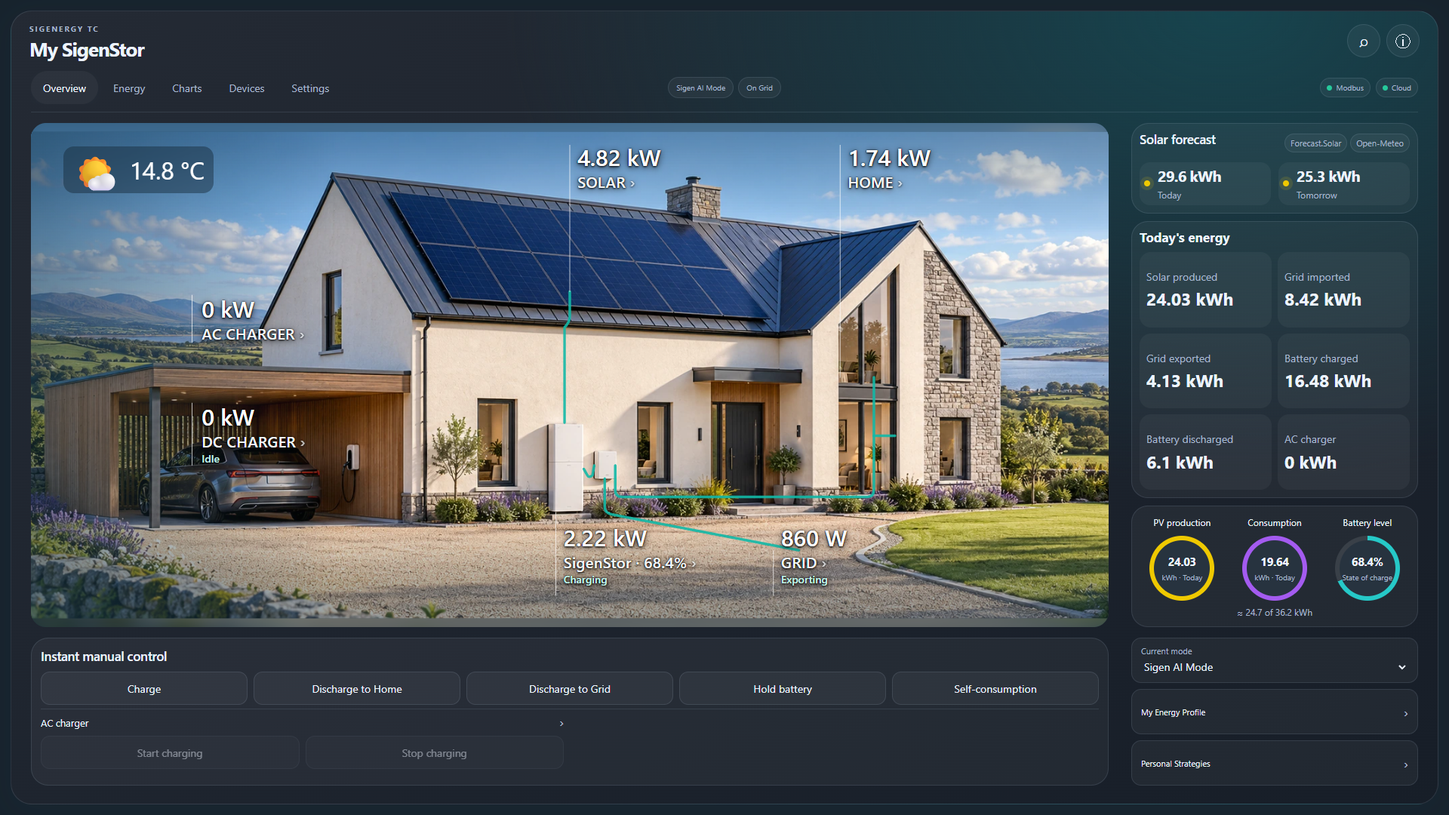
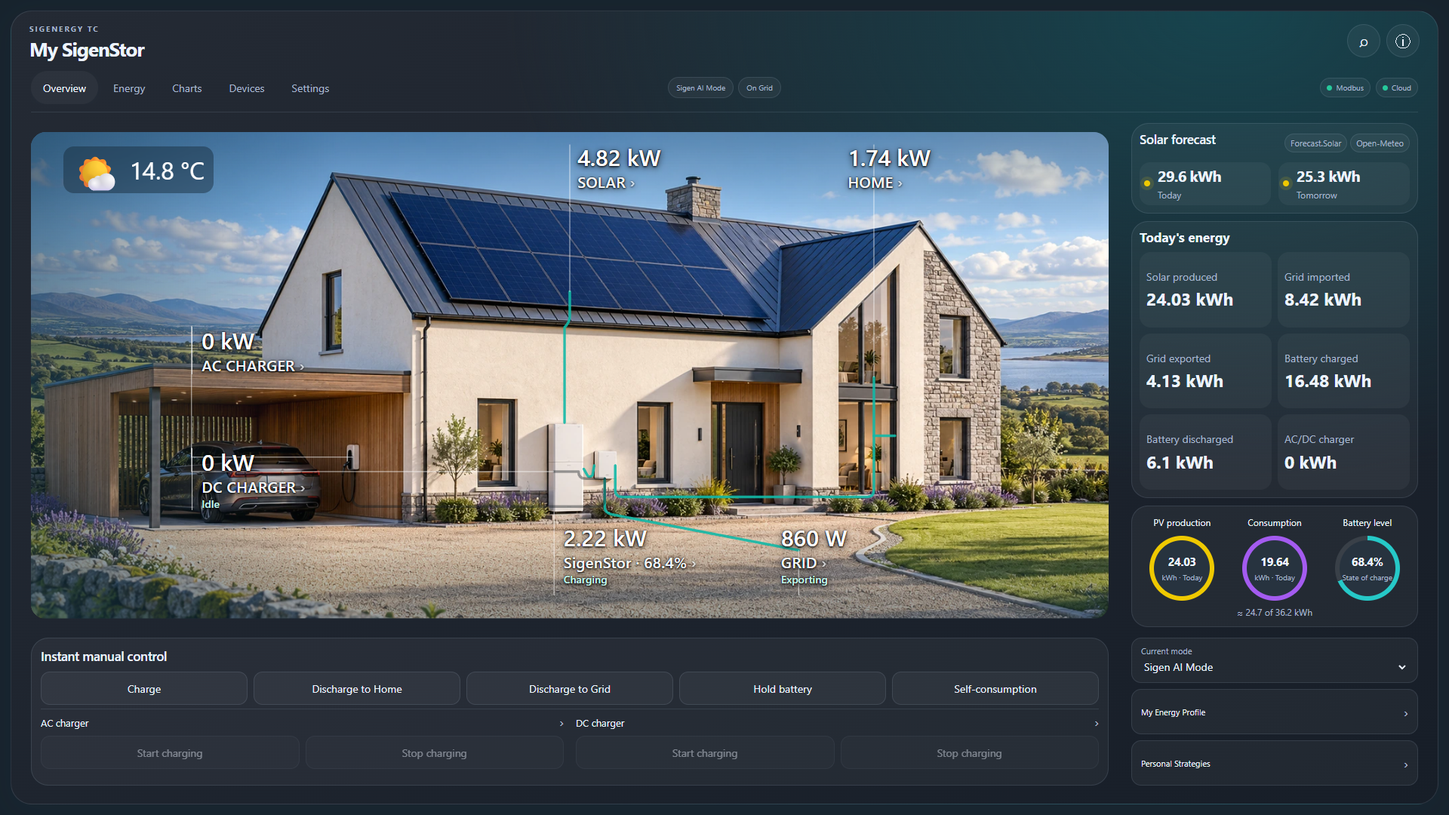
Alpha 0.2.4: charger links, cache upgrades and tablet layout (#8)
* Correct charger visibility, frontend cache upgrades and landscape composition

* Keep compact summary contents inside panels and test shorter native hosts

diff --git a/custom_components/sigen_hybrid/frontend/sigen-hybrid-fit.js b/custom_components/sigen_hybrid/frontend/sigen-hybrid-fit.js
@@ -20,13 +20,18 @@ export function installHostFit(Card) {
       if (!box.width || !this.isConnected) return;
       const viewport = globalThis.visualViewport;
       const bottom = viewport ? viewport.height + viewport.offsetTop : globalThis.innerHeight;
-      const offered = parseFloat(getComputedStyle(this).getPropertyValue('--sigen-embedded-height'));
+      const offeredValue = getComputedStyle(this).getPropertyValue('--sigen-embedded-height').trim();
+      const offered = /^\d+(?:\.\d+)?px$/.test(offeredValue) ? parseFloat(offeredValue) : NaN;
       const padding = this.parentElement ? parseFloat(getComputedStyle(this.parentElement).paddingBottom) || 0 : 0;
       const available = Math.floor(Math.min(bottom - box.top - padding, offered > 0 ? offered : Infinity));
       if (available <= 0) return;
       const value = `${available}px`;
       if (this.style.getPropertyValue('--sigen-host-height') !== value) this.style.setProperty('--sigen-host-height', value);
-      this.toggleAttribute('data-sigen-fit', box.width >= 1100 && available >= 820);
+      // Below this space budget, preserve readable controls in a scrollable
+      // layout instead of compressing panels until their contents overlap.
+      const fit = box.width >= 950 && available >= 660;
+      this.toggleAttribute('data-sigen-fit', fit);
+      this.toggleAttribute('data-sigen-compact-fit', fit && (box.width < 1100 || available < 820));
     };
     this._hostFitMeasure = measure;
     this._hostFitObserver = new ResizeObserver(measure);
@@ -60,10 +65,16 @@ ha-card.embedded-shell>main{min-width:0;min-height:0}
 :host([data-sigen-fit]) main:has(>.overview-preview-toolbar){grid-template-rows:auto auto minmax(0,1fr)}
 :host([data-sigen-fit]) .compact-overview.overview-aligned-controls{height:100%;min-height:0;grid-template-rows:minmax(min-content,1fr) 196px!important}
 :host([data-sigen-fit]) .compact-overview .overview-summary-stack{min-height:min-content;grid-template-rows:auto minmax(min-content,1fr) auto}
-.compact-overview .main-display-stage>.sigen-photo-scene{container-type:size;display:grid;place-items:center;isolation:isolate}
-.compact-overview .main-display-stage .sigen-photo-frame{container-type:size;flex:none;width:min(100cqw,calc(100cqh * 1490 / 673));height:min(100cqh,calc(100cqw * 673 / 1490));aspect-ratio:1490/673}
+.compact-overview .main-display-stage[data-display=photo]{container-type:size;display:grid;place-items:center}
+.compact-overview .main-display-stage>.sigen-photo-scene{container-type:size;display:block;position:relative!important;inset:auto!important;width:min(100cqw,calc(100cqh * 1490 / 673))!important;height:min(100cqh,calc(100cqw * 673 / 1490))!important;background:transparent!important;place-self:center;isolation:isolate}
+.compact-overview .main-display-stage .sigen-photo-frame{container-type:size;flex:none;width:100%;height:100%;aspect-ratio:1490/673}
+.compact-overview .sigen-photo-lower{top:auto!important;bottom:3%}
 .compact-overview .sigen-photo-plane>svg{overflow:hidden}
-.compact-overview .sigen-photo-scene::before{content:'';position:absolute;inset:-20px;z-index:-1;background-image:var(--sigen-photo-image);background-size:cover;background-position:center;filter:blur(16px);opacity:.45}
+.compact-overview .sigen-photo-label-leaders{left:50%;top:50%;width:max(100cqw,calc(100cqh * 2.490342));height:auto;aspect-ratio:1676/673;transform:translate(-50%,-50%)}
+.compact-overview .sigen-photo-chargers{position:absolute;inset:0;transform:none;display:block;max-width:none;min-height:0;pointer-events:none}
+.compact-overview .sigen-photo-chargers .sigen-photo-node{position:absolute;left:14.916468%;max-width:22%;top:40%}
+.compact-overview .sigen-photo-chargers .sigen-photo-node:has([data-detail=dc]){top:65%}
+.compact-overview .sigen-photo-scene::before{content:none!important}
 /* The artwork, cables and labels keep one shared aspect ratio. */
 @container sigen-card (min-width:651px) and (max-width:949px){
  .compact-overview .main-display-stage{aspect-ratio:2.05!important;max-height:none!important}
@@ -75,4 +86,55 @@ ha-card.embedded-shell>main{min-width:0;min-height:0}
 @container sigen-card (max-width:650px){
  .compact-overview .house-canvas{left:0!important;top:0!important;width:100%!important;height:100%!important}
 }
+/* A landscape tablet has less height after its shell header and sidebar.
+   Fit the complete overview using real touch-sized controls, not a tall
+   desktop grid with its bottom hidden outside the tablet. */
+:host([data-sigen-compact-fit]) ha-card>header{padding:8px 12px 4px!important}
+:host([data-sigen-compact-fit]) ha-card>header h1{font-size:20px!important}
+:host([data-sigen-compact-fit]) ha-card>main{padding:0 12px 6px!important}
+:host([data-sigen-compact-fit]) .primary-navigation{display:flex!important;align-items:center;flex-wrap:wrap;gap:4px 8px;margin-bottom:4px;padding-bottom:4px}
+:host([data-sigen-compact-fit]) .primary-navigation>nav{order:0;flex:1 1 auto;grid-column:auto;grid-row:auto}
+:host([data-sigen-compact-fit]) .energy-tab-strip>button{min-height:40px!important;padding:6px 10px!important;font-size:13px!important}
+:host([data-sigen-compact-fit]) .primary-navigation>.badges{order:1;grid-row:auto;gap:4px}
+:host([data-sigen-compact-fit]) .primary-navigation>.connection-strip{order:2;margin-left:auto;grid-row:auto}
+:host([data-sigen-compact-fit]) .badge,:host([data-sigen-compact-fit]) .connection-indicator{min-height:28px!important;padding:4px 7px!important;font-size:10px!important}
+:host([data-sigen-compact-fit]) .compact-overview.overview-grid.overview-aligned-controls{display:grid!important;grid-template-columns:minmax(0,1fr) minmax(280px,32%)!important;grid-template-rows:minmax(0,1fr) auto!important;gap:8px!important;height:100%!important;align-items:stretch}
+:host([data-sigen-compact-fit]) .compact-overview>.hero,:host([data-sigen-compact-fit]) .compact-overview>.overview-sidebar{display:grid!important;grid-template-rows:subgrid!important;grid-row:1/span 2!important;gap:10px!important;min-height:0}
+:host([data-sigen-compact-fit]) .compact-overview>.hero{grid-column:1!important}
+:host([data-sigen-compact-fit]) .compact-overview>.overview-sidebar{grid-column:2!important}
+:host([data-sigen-compact-fit]) .compact-overview .main-display-stage{width:100%!important;height:100%!important;max-height:none!important;aspect-ratio:auto!important;min-height:0}
+:host([data-sigen-compact-fit]) .compact-overview .overview-summary-stack{display:grid!important;grid-template-columns:1fr!important;grid-template-rows:auto minmax(min-content,1fr) auto!important;gap:6px!important;height:100%!important;min-height:0}
+:host([data-sigen-compact-fit]) .overview-side-module>.panel{padding:6px!important;min-height:0}
+:host([data-sigen-compact-fit]) .overview-side-module h2{font-size:15px!important;margin:0 0 5px!important;line-height:20px}
+:host([data-sigen-compact-fit]) .overview-side-module .section-title{margin-bottom:4px;gap:4px}
+:host([data-sigen-compact-fit]) .overview-forecast-panel .tile{min-height:44px!important;padding:4px 6px!important;gap:9px!important}
+:host([data-sigen-compact-fit]) .overview-forecast-panel .tile strong{font-size:18px!important;line-height:22px}
+:host([data-sigen-compact-fit]) .overview-forecast-panel .tile small{font-size:11px!important;line-height:14px}
+:host([data-sigen-compact-fit]) [data-display-module=forecast] .tile{min-height:44px!important;padding:4px 6px!important;gap:9px!important}
+:host([data-sigen-compact-fit]) [data-display-module=forecast] .tile strong{font-size:18px!important;line-height:22px}
+:host([data-sigen-compact-fit]) [data-display-module=forecast] .tile small{font-size:11px!important;line-height:14px}
+:host([data-sigen-compact-fit]) .forecast-source-badges .badge{font-size:9px!important;min-height:20px!important;padding:2px 4px!important}
+:host([data-sigen-compact-fit]) .overview-energy-metrics{gap:5px!important;grid-template-columns:repeat(3,minmax(0,1fr))!important;grid-template-rows:repeat(2,minmax(44px,1fr))!important}
+:host([data-sigen-compact-fit]) .overview-energy-metric{min-height:44px!important;padding:3px 6px!important}
+:host([data-sigen-compact-fit]) .overview-energy-metric small{font-size:11px!important;line-height:12px;margin-bottom:1px!important}
+:host([data-sigen-compact-fit]) .overview-energy-metric strong{font-size:17px!important;line-height:20px;white-space:nowrap}
+:host([data-sigen-compact-fit]) .overview-summary-ring{max-width:52px!important;padding:4px!important}
+:host([data-sigen-compact-fit]) .overview-side-module>.overview-circle-panel{padding:4px!important}
+:host([data-sigen-compact-fit]) .overview-circle-label{font-size:10px!important;line-height:13px;min-height:14px!important}
+:host([data-sigen-compact-fit]) .overview-circle-panel .overview-summary-ring strong{font-size:13px!important}
+:host([data-sigen-compact-fit]) .overview-ring-centre small{font-size:8px!important;margin-top:2px}
+:host([data-sigen-compact-fit]) .overview-circle-button{gap:4px!important}
+:host([data-sigen-compact-fit]) .overview-circle-storage{font-size:10px!important;margin-top:4px!important;line-height:12px}
+:host([data-sigen-compact-fit]) .overview-primary-controls>.panel{padding:6px!important}
+:host([data-sigen-compact-fit]) .instant-manual-panel h2{font-size:15px;margin:0!important}
+:host([data-sigen-compact-fit]) .instant-manual-panel>.section-title{margin-bottom:4px!important;line-height:20px}
+:host([data-sigen-compact-fit]) .battery-control-buttons{grid-template-columns:repeat(5,minmax(0,1fr))!important;gap:5px}
+:host([data-sigen-compact-fit]) .control-buttons button{min-height:44px!important;font-size:12px!important;line-height:15px;padding:5px!important}
+:host([data-sigen-compact-fit]) .overview-charger-controls{grid-template-columns:repeat(2,minmax(0,1fr))!important;margin-top:6px!important;padding-top:5px!important;gap:8px}
+:host([data-sigen-compact-fit]) .overview-charger-heading{font-size:12px!important;line-height:16px!important;padding:0 0 4px!important;min-height:24px}
+:host([data-sigen-compact-fit]) .overview-device-links{display:grid!important;grid-template-columns:1fr!important;grid-template-rows:repeat(3,minmax(44px,1fr))!important;gap:5px!important;margin:0!important;min-height:0}
+:host([data-sigen-compact-fit]) .overview-device-links>*{grid-column:1!important;min-height:44px!important;font-size:12px!important;padding:6px 8px!important}
+:host([data-sigen-compact-fit]) .overview-mode-control select{min-height:24px!important;font-size:13px!important}
+:host([data-sigen-compact-fit]) .mobile-power-grid{display:none!important}
+:host([data-sigen-compact-fit]) .house-reading,:host([data-sigen-compact-fit]) .sigen-photo-node,:host([data-sigen-compact-fit]) .sigen-photo-leader{display:block!important}
 `;

diff --git a/custom_components/sigen_hybrid/frontend/sigen-hybrid-photo.js b/custom_components/sigen_hybrid/frontend/sigen-hybrid-photo.js
@@ -1,4 +1,4 @@
-import { renderSceneWeather, renderWeatherEffects } from './sigen-hybrid-house.js?v=0.2.3';
+import { renderSceneWeather, renderWeatherEffects } from './sigen-hybrid-house.js?v=0.2.4';
 /*
  * Copyright 2025-2026 Jean-Yves Avenard
  *
@@ -48,6 +48,8 @@ const FLOWS = Object.freeze({
   homeFlow: { path: 'M890 438 V466 Q890 474 898 474 H1178 Q1186 474 1186 466 V337', length: 462.1, gateway: 'start' },
   homeBranch: { path: 'M1186 404 H1210', length: 24, parent: 'homeFlow', fork: 395.1 },
   gridFlow: { path: 'M878 453 V486 Q878 492 886 494 L1100 535', length: 261.4, gateway: 'start' },
+  acFlow: { path: 'M878 453 V477 Q878 485 870 485 H601 Q589 485 589 473 V428', length: 371, gateway: 'start' },
+  dcFlow: { path: 'M878 453 H856 Q848 453 848 445 H820', length: 66, gateway: 'start' },
 });
 // Distances follow the remapped local paths. A shared cycle carries the pulse
 // through the inverter/gateway to HOME without traversing the open sky.
@@ -123,6 +125,8 @@ export function photoSceneModel(ctx = {}) {
       homeFlow: flow(home, homeActive), homeBranch: flow(home, homeActive),
       // This cable's path points from gateway to grid.
       gridFlow: flow(grid === null ? null : -grid, gridActive, grid !== null && grid > 0),
+      acFlow: flow(ac, hasAc && activeReading(ctx, 'ac_power', ac)),
+      dcFlow: flow(dc, hasDc && activeReading(ctx, 'dc_power', dc)),
     },
     duration: PULSE.cycle / (PULSE.speed[0] + PULSE.speed[1] * Math.sqrt(homeActive ? Math.abs(home) : 0)),
   };
@@ -157,7 +161,7 @@ export function renderPhotoScene(ctx = {}) {
   const coverTransform = `translate(${number(COVER.x, 6)} ${number(COVER.y, 6)}) scale(${number(COVER.scale, 6)})`;
   const lower = `left:${number(READINGS.lower[0] / SCENE.width * 100, 5)}%;width:${number((SCENE.width - READINGS.lower[0]) / SCENE.width * 100, 5)}%;bottom:${number((SCENE.height - READINGS.lower[2]) / SCENE.height * 100, 5)}%;grid-template-columns:${number((READINGS.lower[1] - READINGS.lower[0]) / (SCENE.width - READINGS.lower[0]) * 100, 5)}% auto`;
   const soc = values.soc === null ? '—' : `${number(values.soc, 1)}%`;
-  return `<section class="sigen-photo-scene${model.night ? ' is-night' : ''}" aria-label="Home energy flow" style="--sigen-photo-image:url('${escape(image)}')"><div class="sigen-photo-frame">${renderWeatherEffects(ctx)}<div class="sigen-photo-weather">${renderSceneWeather(ctx)}</div><div class="sigen-photo-plane"><svg viewBox="0 0 ${SCENE.width} ${SCENE.height}" preserveAspectRatio="xMidYMid meet" role="img" aria-label="Energy flow between solar panels, SigenStor, home and grid"><defs><linearGradient id="${gradient('top')}" x1="0" y1="0" x2="0" y2="1"><stop offset="0" class="sigen-photo-fade" stop-opacity=".6"/><stop offset=".5" class="sigen-photo-fade" stop-opacity=".35"/><stop offset="1" class="sigen-photo-fade" stop-opacity="0"/></linearGradient><linearGradient id="${gradient('bottom')}" x1="0" y1="0" x2="0" y2="1"><stop offset="0" class="sigen-photo-fade" stop-opacity="0"/><stop offset=".45" class="sigen-photo-fade" stop-opacity=".4"/><stop offset="1" class="sigen-photo-fade" stop-opacity=".65"/></linearGradient><linearGradient id="${gradient('left')}" x1="0" y1="0" x2="1" y2="0"><stop offset="0" class="sigen-photo-fade" style="stop-opacity:var(--photo-fade-left)"/><stop offset="1" class="sigen-photo-fade" stop-opacity="0"/></linearGradient></defs><g class="sigen-photo-cover-image" transform="${coverTransform}"><image class="sigen-photo-art" href="${escape(image)}" x="0" y="${PHOTO.top}" width="${PHOTO.width}" height="${PHOTO.height}" preserveAspectRatio="xMidYMid meet"/></g><rect x="0" y="-${PHOTO.bleed}" width="${SCENE.width}" height="${FADE.topEnd + PHOTO.bleed}" class="sigen-photo-fade-rect" fill="url(#${gradient('top')})"/><rect x="0" y="${FADE.bottomStart}" width="${SCENE.width}" height="${SCENE.height - FADE.bottomStart + PHOTO.bleed}" class="sigen-photo-fade-rect" fill="url(#${gradient('bottom')})"/><rect x="0" y="-${PHOTO.bleed}" width="520" height="${SCENE.height + 2 * PHOTO.bleed}" fill="url(#${gradient('left')})"/><g class="sigen-photo-cover-flows" transform="${coverTransform}">${Object.keys(FLOWS).map(id => flowMarkup(id, model)).join('')}</g></svg></div><svg class="sigen-photo-label-leaders" viewBox="0 0 ${SCENE.width} ${SCENE.height}" preserveAspectRatio="none" aria-hidden="true">${LEADERS.map(path => `<path class="sigen-photo-leader" d="${path}" fill="none" stroke="#d5e1e5" stroke-width="1" vector-effect="non-scaling-stroke"/>`).join('')}</svg><div class="sigen-photo-labels">${label('solar', 'SOLAR', power(values.solar), '', 'sigen-photo-lead', place(READINGS.solar))}${label('load', 'HOME', power(values.home), '', 'sigen-photo-lead', place(READINGS.home))}<div class="sigen-photo-lower" style="${lower}">${label('battery', `SigenStor · ${soc}`, power(values.battery), model.batteryStatus)}${label('grid', 'GRID', power(values.grid), model.gridStatus)}</div>${model.hasAc || model.hasDc ? `<div class="sigen-photo-chargers">${model.hasAc ? label('ac', 'AC CHARGER', power(values.ac), model.acState) : ''}${model.hasDc ? label('dc', 'DC CHARGER', power(values.dc), status(values.dc, 'Charging', 'Discharging')) : ''}</div>` : ''}</div></div></section>`;
+  return `<section class="sigen-photo-scene${model.night ? ' is-night' : ''}" aria-label="Home energy flow"><div class="sigen-photo-frame">${renderWeatherEffects(ctx)}<div class="sigen-photo-weather">${renderSceneWeather(ctx)}</div><div class="sigen-photo-plane"><svg viewBox="0 0 ${SCENE.width} ${SCENE.height}" preserveAspectRatio="xMidYMid meet" role="img" aria-label="Energy flow between solar panels, SigenStor, home and grid"><defs><linearGradient id="${gradient('top')}" x1="0" y1="0" x2="0" y2="1"><stop offset="0" class="sigen-photo-fade" stop-opacity=".6"/><stop offset=".5" class="sigen-photo-fade" stop-opacity=".35"/><stop offset="1" class="sigen-photo-fade" stop-opacity="0"/></linearGradient><linearGradient id="${gradient('bottom')}" x1="0" y1="0" x2="0" y2="1"><stop offset="0" class="sigen-photo-fade" stop-opacity="0"/><stop offset=".45" class="sigen-photo-fade" stop-opacity=".4"/><stop offset="1" class="sigen-photo-fade" stop-opacity=".65"/></linearGradient><linearGradient id="${gradient('left')}" x1="0" y1="0" x2="1" y2="0"><stop offset="0" class="sigen-photo-fade" style="stop-opacity:var(--photo-fade-left)"/><stop offset="1" class="sigen-photo-fade" stop-opacity="0"/></linearGradient></defs><g class="sigen-photo-cover-image" transform="${coverTransform}"><image class="sigen-photo-art" href="${escape(image)}" x="0" y="${PHOTO.top}" width="${PHOTO.width}" height="${PHOTO.height}" preserveAspectRatio="xMidYMid meet"/></g><rect x="0" y="-${PHOTO.bleed}" width="${SCENE.width}" height="${FADE.topEnd + PHOTO.bleed}" class="sigen-photo-fade-rect" fill="url(#${gradient('top')})"/><rect x="0" y="${FADE.bottomStart}" width="${SCENE.width}" height="${SCENE.height - FADE.bottomStart + PHOTO.bleed}" class="sigen-photo-fade-rect" fill="url(#${gradient('bottom')})"/><rect x="0" y="-${PHOTO.bleed}" width="520" height="${SCENE.height + 2 * PHOTO.bleed}" fill="url(#${gradient('left')})"/><g class="sigen-photo-cover-flows" transform="${coverTransform}">${Object.keys(FLOWS).filter(id => id !== 'acFlow' && id !== 'dcFlow' || id === 'acFlow' && model.hasAc || id === 'dcFlow' && model.hasDc).map(id => flowMarkup(id, model)).join('')}</g></svg></div><svg class="sigen-photo-label-leaders" viewBox="0 0 ${SCENE.width} ${SCENE.height}" preserveAspectRatio="none" aria-hidden="true">${[...LEADERS,...(model.hasAc ? ['M315 269 V450 H538'] : []),...(model.hasDc ? ['M315 437 V470 H816'] : [])].map(path => `<path class="sigen-photo-leader" d="${path}" fill="none" stroke="#d5e1e5" stroke-width="1" vector-effect="non-scaling-stroke"/>`).join('')}</svg><div class="sigen-photo-labels">${label('solar', 'SOLAR', power(values.solar), '', 'sigen-photo-lead', place(READINGS.solar))}${label('load', 'HOME', power(values.home), '', 'sigen-photo-lead', place(READINGS.home))}<div class="sigen-photo-lower" style="${lower}">${label('battery', `SigenStor · ${soc}`, power(values.battery), model.batteryStatus)}${label('grid', 'GRID', power(values.grid), model.gridStatus)}</div>${model.hasAc || model.hasDc ? `<div class="sigen-photo-chargers">${model.hasAc ? label('ac', 'AC CHARGER', power(values.ac), model.acState) : ''}${model.hasDc ? label('dc', 'DC CHARGER', power(values.dc), status(values.dc, 'Charging', 'Discharging')) : ''}</div>` : ''}</div></div></section>`;
 }
 
 export const PHOTO_STYLE = `

diff --git a/tools/gallery.html b/tools/gallery.html
@@ -5,11 +5,13 @@
 // Reproducible public documentation examples. This page has no credentials or network control client.
 import '../custom_components/sigen_hybrid/frontend/sigen-hybrid-card.js';
 const params=new URLSearchParams(location.search),card=document.querySelector('sigen-hybrid-card'),now=Date.now(),entities={},states={};
-if(params.has('shell')){const header=document.createElement('header');header.textContent='Tablet dashboard · Solar';header.style.cssText='height:92px;display:flex;align-items:center;box-sizing:border-box;padding:16px;font-size:20px';document.body.insertBefore(header,card);}
+if(params.has('shell')){const header=document.createElement('header');header.textContent='Tablet dashboard · Solar';header.style.cssText=`height:${params.has('tall_header')?144:92}px;display:flex;align-items:center;box-sizing:border-box;padding:16px;font-size:20px`;document.body.insertBefore(header,card);}
 const measurements={solar_power:[4.82,'kW'],home_power:[1.74,'kW'],grid_power:[-.86,'kW'],battery_power:[2.22,'kW'],battery_soc:[68.4,'%'],battery_capacity:[36.16,'kWh'],solar_today:[24.03,'kWh'],home_today:[19.64,'kWh'],grid_import_today:[8.42,'kWh'],grid_export_today:[4.13,'kWh'],battery_charge_today:[16.48,'kWh'],battery_discharge_today:[6.1,'kWh'],forecast_today:[29.6,'kWh'],forecast_tomorrow:[25.3,'kWh'],ac_power:[0,'kW'],ac_today:[0,'kWh'],dc_power:[0,'kW'],dc_today:[0,'kWh']};
 for(const [key,[value,unit]] of Object.entries(measurements)){const id='sensor.example_'+key;entities[key]=id;states[id]={entity_id:id,state:String(value),last_updated:new Date(now).toISOString(),attributes:{unit_of_measurement:unit}};}
-for(const [key,value,attributes] of [['control_status','ready',{config_entry_id:'example',control_api_version:1,live_writes_locked:true,connections:{modbus:{enabled:true,status:'connected'},cloud:{enabled:true,status:'connected'}},capabilities:{manual_control:{supported:true,available:false}},native_settings:{mode:{operationMode:0},gateway:{onOffGridStatus:0}}}],['cloud_mode','Sigen AI Mode',{}],['cloud_status','connected',{device_inventory:[{id:'solar',type:'solar',installed:true},{id:'storage',type:'inverter',installed:true},{id:'ac',type:'ac',installed:true},{id:'dc',type:'dc',installed:false}]}],['modbus_status','connected',{}],['forecast_status','ready',{available:true,provider:'average',sources:[{provider:'forecast_solar',name:'Forecast.Solar',available:true},{provider:'open_meteo_solar_forecast',name:'Open-Meteo',available:true}]}]]){const id='sensor.example_'+key;entities[key]=id;states[id]={entity_id:id,state:value,attributes,last_updated:new Date(now).toISOString()};}
+for(const [key,value,attributes] of [['control_status','ready',{config_entry_id:'example',control_api_version:1,live_writes_locked:true,connections:{modbus:{enabled:true,status:'connected'},cloud:{enabled:true,status:'connected'}},capabilities:{manual_control:{supported:true,available:false}},native_settings:{mode:{operationMode:0},gateway:{onOffGridStatus:0}}}],['cloud_mode','Sigen AI Mode',{}],['cloud_status','connected',{device_inventory:[{id:'solar',type:'solar',installed:true},{id:'storage',type:'inverter',installed:true},{id:'ac',type:'ac',installed:true},{id:'dc',type:'dc',installed:true}]}],['modbus_status','connected',{}],['forecast_status','ready',{available:true,provider:'average',sources:[{provider:'forecast_solar',name:'Forecast.Solar',available:true},{provider:'open_meteo_solar_forecast',name:'Open-Meteo',available:true}]}]]){const id='sensor.example_'+key;entities[key]=id;states[id]={entity_id:id,state:value,attributes,last_updated:new Date(now).toISOString()};}
 entities.grid_status='sensor.example_grid_status';states[entities.grid_status]={state:'on_grid',attributes:{}};
+if(params.has('inventory_only'))for(const key of ['ac_power','dc_power']){delete states[entities[key]];delete entities[key];}
+if(params.has('sidebar')){document.body.style.paddingLeft='242px';const aside=document.createElement('aside');aside.textContent='Tablet menu';aside.style.cssText='position:fixed;left:14px;top:14px;bottom:14px;width:214px;border-radius:20px;background:#b9e6ec;color:#173849;box-sizing:border-box;padding:20px';document.body.append(aside);}
 states['weather.example']={state:'partlycloudy',attributes:{temperature:14.8,temperature_unit:'°C'}};states['sun.sun']={state:'above_horizon',attributes:{}};
 card.setConfig({type:'custom:sigen-hybrid-card',title:'My SigenStor',view:params.get('view')??'overview',main_display:params.get('display')??'photo',...(params.has('shell')?{embedded:true,embed_mode:'shell'}:{}),appearance:'day',config_entry:'example',entities,weather_entity:'weather.example',animations:false,devices:states[entities.cloud_status].attributes.device_inventory});
 card.hass={states,themes:{darkMode:true},config:{time_zone:'Europe/Dublin',currency:'EUR',unit_system:{temperature:'°C'}},locale:{language:'en',number_format:'language'},user:{is_admin:true},callWS:async()=>{throw Error('Offline documentation example');}};

diff --git a/custom_components/sigen_hybrid/frontend/sigen-hybrid-card.js b/custom_components/sigen_hybrid/frontend/sigen-hybrid-card.js
@@ -20,15 +20,15 @@
  * OUT OF OR IN CONNECTION WITH THE SOFTWARE OR THE USE OR OTHER DEALINGS IN THE
  * SOFTWARE.
  */
-import { installNavigation, CARD_PRESETS, CARD_CHART_CHOICES } from './sigen-hybrid-navigation.js?v=0.2.3';
-import { installHostFit } from './sigen-hybrid-fit.js?v=0.2.3';
-import { WIDGET_ROUTES } from './sigen-hybrid-widgets.js?v=0.2.3';
-import { renderPhotoScene, PHOTO_STYLE } from './sigen-hybrid-photo.js?v=0.2.3';
-import { renderTodayEnergy, renderBatteryLevel, renderChargerControls, renderMobilePower, OVERVIEW_STYLE } from './sigen-hybrid-overview.js?v=0.2.3';
-import { energySankey as buildEnergySankey } from './sigen-hybrid-sankey.js?v=0.2.3';
-import { renderHouseScene, HOUSE_STYLE } from './sigen-hybrid-house.js?v=0.2.3';
-import { renderDeviceOverview, DEVICE_STYLE } from './sigen-hybrid-devices.js?v=0.2.3';
-import { gridConnectionStatus, connectionIndicators, selectReadingState } from './sigen-hybrid-energy.js?v=0.2.3';
+import { installNavigation, CARD_PRESETS, CARD_CHART_CHOICES } from './sigen-hybrid-navigation.js?v=0.2.4';
+import { installHostFit } from './sigen-hybrid-fit.js?v=0.2.4';
+import { WIDGET_ROUTES } from './sigen-hybrid-widgets.js?v=0.2.4';
+import { renderPhotoScene, PHOTO_STYLE } from './sigen-hybrid-photo.js?v=0.2.4';
+import { renderTodayEnergy, renderBatteryLevel, renderChargerControls, renderMobilePower, OVERVIEW_STYLE } from './sigen-hybrid-overview.js?v=0.2.4';
+import { energySankey as buildEnergySankey } from './sigen-hybrid-sankey.js?v=0.2.4';
+import { renderHouseScene, HOUSE_STYLE } from './sigen-hybrid-house.js?v=0.2.4';
+import { renderDeviceOverview, DEVICE_STYLE } from './sigen-hybrid-devices.js?v=0.2.4';
+import { gridConnectionStatus, connectionIndicators, selectReadingState } from './sigen-hybrid-energy.js?v=0.2.4';
 export const MAIN_DISPLAYS = Object.freeze({ house: 'House', flow: 'Flow', photo: 'Photo house' });
 const COLORS = { solar: '#efc900', battery: '#26c9c8', grid: '#6694ff', home: '#a45bf0', ac: '#b46767', dc: '#d29420' };
 const LABELS = { solar: 'Solar', battery: 'Battery', grid: 'Grid', home: 'Home', ac: 'AC charger', dc: 'DC charger' };
@@ -227,7 +227,12 @@ export class SigenHybridCard extends HTMLElement {
   }
   _now() { const snapshot = Date.parse(this._config?.snapshot_at ?? ''); return Number.isFinite(snapshot) ? snapshot : Date.now(); }
   _value(key, kind = 'power') { return measurement(this._state(key), kind); }
-  _has(key) { return Boolean(this._entities[key]); }
+  _has(key) {
+    if (Object.hasOwn(this._config?.entities ?? {}, key) && this._config.entities[key] === null) return false;
+    if (this._entities[key]) return true;
+    const type = {ac_power:'ac',ac_state:'ac',dc_power:'dc'}[key];
+    return Boolean(type && this._deviceInventory().some(device => device.type === type && device.installed === true));
+  }
   _readOnly() { const control=this._state('control_status')?.attributes;return this._config.cloud_paused === true || !this._config.config_entry || control?.live_writes_locked !== false || control?.control_api_version===1&&control?.capabilities?.manual_control?.available!==true; }
   _moduleIds() { return (this._config.optimizers ?? []).flatMap(m => ['power', 'energy', 'voltage', 'current'].map(k => m[k]).filter(Boolean)); }
   _deviceIds() { return (this._config.devices ?? []).flatMap(device => Object.values(device.entities ?? {}).filter(Boolean)); }

diff --git a/custom_components/sigen_hybrid/frontend/sigen-hybrid-navigation.js b/custom_components/sigen_hybrid/frontend/sigen-hybrid-navigation.js
@@ -1,11 +1,11 @@
 /* SPDX-License-Identifier: GPL-3.0-only */
-import { renderDeviceDetail, solarStringSeries, DETAIL_STYLE } from './sigen-hybrid-details.js?v=0.2.3';
-import { renderSettingsDetail, collectSettings, SETTINGS_STYLE, SETTINGS_ROUTES, CHART_CHOICES, DEFAULT_CHART_SELECTION, DISPLAY_MODULES, DISPLAY_PRESETS, HOMEPAGE_APPEARANCES, HOMEPAGE_BACKGROUNDS, homepageBackground, displayDefaults, encodeChargerScheduleId, decodeChargerScheduleId, bindTariffEditor, bindStrategyEditor, OPERATING_MODES, observedOperatingMode, renderOverviewModeControl, strategyExportEligibility } from './sigen-hybrid-settings.js?v=0.2.3';
-import { periodRange, dateAt, shiftDate, toCSV, preserveChartScroll } from './sigen-hybrid-charts.js?v=0.2.3';
-import { renderSummaryWidget, renderSummaryDetail, WIDGET_ROUTES, WIDGET_STYLE } from './sigen-hybrid-widgets.js?v=0.2.3';
-import { ENERGY_ROUTES, renderEnergyProfile, ENERGY_STYLE, ownerSettingTarget, renderOwnerSetting, collectOwnerSetting, bindOwnerSettingForm } from './sigen-hybrid-energy.js?v=0.2.3';
-import { renderChargingEnergy, renderTodayEnergy, renderBatteryLevel, renderMobilePower, renderChargerControls } from './sigen-hybrid-overview.js?v=0.2.3';
-import { modeChoices, selectedMode, nativeModeChoices } from './sigen-hybrid-settings.js?v=0.2.3';
+import { renderDeviceDetail, solarStringSeries, DETAIL_STYLE } from './sigen-hybrid-details.js?v=0.2.4';
+import { renderSettingsDetail, collectSettings, SETTINGS_STYLE, SETTINGS_ROUTES, CHART_CHOICES, DEFAULT_CHART_SELECTION, DISPLAY_MODULES, DISPLAY_PRESETS, HOMEPAGE_APPEARANCES, HOMEPAGE_BACKGROUNDS, homepageBackground, displayDefaults, encodeChargerScheduleId, decodeChargerScheduleId, bindTariffEditor, bindStrategyEditor, OPERATING_MODES, observedOperatingMode, renderOverviewModeControl, strategyExportEligibility } from './sigen-hybrid-settings.js?v=0.2.4';
+import { periodRange, dateAt, shiftDate, toCSV, preserveChartScroll } from './sigen-hybrid-charts.js?v=0.2.4';
+import { renderSummaryWidget, renderSummaryDetail, WIDGET_ROUTES, WIDGET_STYLE } from './sigen-hybrid-widgets.js?v=0.2.4';
+import { ENERGY_ROUTES, renderEnergyProfile, ENERGY_STYLE, ownerSettingTarget, renderOwnerSetting, collectOwnerSetting, bindOwnerSettingForm } from './sigen-hybrid-energy.js?v=0.2.4';
+import { renderChargingEnergy, renderTodayEnergy, renderBatteryLevel, renderMobilePower, renderChargerControls } from './sigen-hybrid-overview.js?v=0.2.4';
+import { modeChoices, selectedMode, nativeModeChoices } from './sigen-hybrid-settings.js?v=0.2.4';
 
 const escape = value => String(value ?? '').replace(/[&<>"']/g, c => ({ '&':'&amp;', '<':'&lt;', '>':'&gt;', '"':'&quot;', "'":'&#39;' })[c]);
 

diff --git a/custom_components/sigen_hybrid/frontend/sigen-hybrid-details.js b/custom_components/sigen_hybrid/frontend/sigen-hybrid-details.js
@@ -1,8 +1,8 @@
 /* SPDX-License-Identifier: GPL-3.0-only
  * Pure device-detail views. Navigation, charts and data access belong to the host.
  */
-import { renderChargerButtons } from './sigen-hybrid-overview.js?v=0.2.3';
-import { renderDeviceGraphic } from './sigen-hybrid-devices.js?v=0.2.3';
+import { renderChargerButtons } from './sigen-hybrid-overview.js?v=0.2.4';
+import { renderDeviceGraphic } from './sigen-hybrid-devices.js?v=0.2.4';
 export const escapeDetailHTML = value => String(value ?? '').replace(/[&<>"']/g, character => ({ '&': '&amp;', '<': '&lt;', '>': '&gt;', '"': '&quot;', "'": '&#39;' })[character]);
 const esc = escapeDetailHTML;
 const absent = value => value === null || value === undefined || typeof value === 'string' && (!value.trim() || ['unknown', 'unavailable', 'none'].includes(value.toLowerCase()));

diff --git a/tests/test_frontend_assets.py b/tests/test_frontend_assets.py
@@ -1,8 +1,11 @@
 """All imported dashboard modules must be served when the integration loads."""
 import ast
+import json
 import re
 from pathlib import Path
 from types import SimpleNamespace
+
+import pytest
 
 
 async def test_frontend_serves_only_the_complete_known_asset_set():
@@ -10,6 +13,7 @@ async def test_frontend_serves_only_the_complete_known_asset_set():
     tree = ast.parse(source.read_text())
     namespace = {
         "Path": Path, "__file__": str(source.resolve()), "DOMAIN": "sigen_hybrid", "LOVELACE_DATA": "lovelace",
+        "VERSION": "0.2.4",
         "StaticPathConfig": lambda url, path, **kwargs: (url, path, kwargs),
     }
     exec(compile(ast.Module(body=[node for node in tree.body if isinstance(node, ast.AsyncFunctionDef)], type_ignores=[]), str(source), "exec"), namespace)
@@ -37,3 +41,40 @@ async def test_frontend_serves_only_the_complete_known_asset_set():
             module = specifier.split("?", 1)[0]
             assert module == f"./{Path(module).name}"
             assert Path(module).name in expected
+
+
+@pytest.mark.parametrize("existing_url", [None, "/sigen_hybrid/sigen-hybrid-card.js", "/sigen_hybrid/sigen-hybrid-card.js?v=0.2.3"])
+async def test_resource_registration_versions_new_and_existing_resources(existing_url):
+    source = Path("custom_components/sigen_hybrid/frontend.py")
+    namespace = {"Path": Path, "__file__": str(source.resolve()), "DOMAIN": "sigen_hybrid", "VERSION": "0.2.4", "LOVELACE_DATA": "lovelace", "StaticPathConfig": lambda *a, **kw: None}
+    tree = ast.parse(source.read_text())
+    exec(compile(ast.Module(body=[n for n in tree.body if isinstance(n, ast.AsyncFunctionDef)], type_ignores=[]), str(source), "exec"), namespace)
+    other = {"id": "other", "url": "/local/another-card.js", "type": "module"}
+    rows = [other.copy()] + ([{"id": "tc", "url": existing_url, "type": "module"}] if existing_url else [])
+    changes = []
+
+    async def noop(*args):
+        pass
+
+    async def create(data):
+        rows.append({"id": "tc", **data})
+        changes.append("create")
+
+    async def update(identity, data):
+        assert identity == "tc"
+        rows[1].update(data)
+        changes.append("update")
+
+    resources = SimpleNamespace(async_get_info=noop, async_items=lambda: rows, async_create_item=create, async_update_item=update)
+    hass = SimpleNamespace(data={"lovelace": SimpleNamespace(resource_mode="storage", resources=resources)}, http=SimpleNamespace(async_register_static_paths=noop))
+    await namespace["async_register_frontend"](hass)
+    assert rows[0] == other
+    assert rows[1]["id"] == "tc" and rows[1]["url"] == "/sigen_hybrid/sigen-hybrid-card.js?v=0.2.4"
+    await namespace["async_register_frontend"](hass)
+    assert len(changes) == 1
+
+
+def test_frontend_resource_version_matches_package():
+    manifest = json.loads(Path("custom_components/sigen_hybrid/manifest.json").read_text())
+    from custom_components.sigen_hybrid.const import VERSION
+    assert VERSION == manifest["version"]

diff --git a/custom_components/sigen_hybrid/frontend.py b/custom_components/sigen_hybrid/frontend.py
@@ -5,7 +5,7 @@ from pathlib import Path
 from homeassistant.components.http import StaticPathConfig
 from homeassistant.components.lovelace.const import LOVELACE_DATA
 
-from .const import DOMAIN
+from .const import DOMAIN, VERSION
 
 
 async def async_register_frontend(hass):
@@ -39,5 +39,12 @@ async def async_register_frontend(hass):
     if dashboard is not None and dashboard.resource_mode == "storage":
         resources = dashboard.resources
         await resources.async_get_info()
-        if not any("sigen-hybrid-card.js" in item.get("url", "") for item in resources.async_items()):
-            await resources.async_create_item({"url": f"/{DOMAIN}/sigen-hybrid-card.js", "res_type": "module"})
+        path = f"/{DOMAIN}/sigen-hybrid-card.js"
+        url = f"{path}?v={VERSION}"
+        existing = [item for item in resources.async_items() if item.get("url", "").split("?", 1)[0] == path]
+        if not existing:
+            await resources.async_create_item({"url": url, "res_type": "module"})
+        else:
+            for item in existing:
+                if item["url"] != url:
+                    await resources.async_update_item(item["id"], {"url": url, "res_type": "module"})

diff --git a/custom_components/sigen_hybrid/const.py b/custom_components/sigen_hybrid/const.py
@@ -1,6 +1,6 @@
 """Integration constants."""
 
 DOMAIN = "sigen_hybrid"
-VERSION = "0.1.0"
+VERSION = "0.2.4"
 DEFAULT_POLL_SECONDS = 45
 LIVE_WRITES_READY = False

diff --git a/docs/dashboard-embedding.md b/docs/dashboard-embedding.md
@@ -26,7 +26,7 @@ The installer never assumes an arbitrary third-party shell can display a card. A
 
 The main navigation is Overview, Energy, Charts, Devices and Settings. Settings groups are Energy, Connections & data, Appearance, System & safety, Service and About. Existing overview shortcuts open the same editors. Scene, day/night and layout choices live in Appearance; test preview badges require `show_preview_controls: true`.
 
-Phone views use readable power tiles under the scene instead of overlaying small labels. All three scene choices retain the same controls and detail destinations. Larger layouts keep the scene and summary side by side when space allows.
+Phone views use readable power tiles under the scene instead of overlaying small labels. All three scene choices retain the same controls and detail destinations. Larger layouts keep the scene and summary side by side when space allows. Compact landscape layouts reflow daily totals into three columns so the picture, summary and all control groups fit beneath the host header. Portrait and phone layouts preserve readable vertical scrolling.
 
 Connection setup renders the integration's native HA options flow inside TC. Credentials stay transient in the form and are submitted only to HA's options API. Cancel closes that flow. Account time/date/number/week-start preferences use HA's native per-user frontend storage; security and account management remain in HA's account page. A reload may be needed for HA itself to apply locale preferences.
 
@@ -73,8 +73,14 @@ Panels, charts and dialogs follow Home Assistant light/dark mode. House lighting
 
 ## Embedded sizing
 
-The full dashboard measures its own width and available height below host headers. A custom shell can offer `--sigen-embedded-height` on the card; TC caps that to the visible viewport and recalculates on resize. Photo House keeps one aspect ratio for its artwork, cables and labels, with a softened matching background filling unused space. Narrower tablets use separate readable, clickable power tiles; charger readings appear only when configured.
+The full dashboard measures its own width and available height below host headers. A custom shell can offer `--sigen-embedded-height` on the card; TC caps that to the visible viewport and recalculates on resize. Photo House keeps one aspect ratio for its artwork, cables and labels, without blurred padding. Narrower tablets use separate readable, clickable power tiles; charger readings appear only when configured.
 
 Large enough containers retain the complete two-column overview. Short or narrow containers scroll inside the bounded drop-in rather than clipping controls or reducing text and touch targets beyond readability. Other tabs retain their content scrolling. An arbitrary third-party shell must itself offer a bounded area or allow scrolling; TC cannot override an external shell that clips or hides its entire child.
 
 ![Embedded tablet below a dashboard header](images/embedded-tablet.png)
+
+## Frontend updates and installed chargers
+
+From 0.2.4, startup registers the frontend at a versioned URL and upgrades an existing unversioned or older TC resource in place. After updating in HACS, restart HA and reload the tablet or browser web view once so it observes the changed resource configuration. A backend update alone cannot replace modules already running in an open web view. Other Lovelace resources are not changed.
+
+Photo/house/flow and narrow-screen power tiles use the discovered installed-device inventory as well as explicitly mapped sensors. An installed AC/DC charger remains visible when instantaneous power is unavailable; its label opens the same device details and the cable remains drawn without a false flow animation. A missing power reading is shown as a dash, never invented as zero. Explicitly disabled entity mappings remain excluded.

diff --git a/CHANGELOG.md b/CHANGELOG.md
@@ -1,5 +1,13 @@
 # Changelog
 
+## 0.2.4
+
+- Version and upgrade the registered frontend resource automatically, retaining its resource ID and leaving other cards untouched. This prevents an updated backend from retaining the previous JavaScript module graph on tablets and browsers.
+- Keep installed AC/DC chargers visible from the actual inventory even when a power sensor is not bound. Missing readings remain unknown; explicit entity exclusions are respected. Add the previously missing conditional charger connection paths and detail links to Photo House.
+- Remove blurred image padding. Preserve the photo proportions and align its leaders, installed-device labels and flow paths within the responsive scene.
+- Fit the complete landscape overview below host headers and beside dashboard sidebars. Reflow daily totals into three columns on compact landscape layouts and retain reachable controls in the same composition. Phones and portrait layouts keep their readable scrolling layout.
+- Test both chargers without power bindings, resource upgrades, and whole-layout visibility across 44 browser layout cases plus 12 resize checks.
+
 ## 0.2.3
 
 - Fit embedded dashboards to their host space below headers. Keep Photo House artwork, flow lines and labels on one aspect ratio; preserve charger details when resizing and use readable tiles on narrower tablets. Scroll within the drop-in where the available space cannot contain every control.

diff --git a/docs/troubleshooting.md b/docs/troubleshooting.md
@@ -27,3 +27,11 @@ Local-only installations need a continuous midnight crossing or an explicitly ve
 ## Tablet headers or house labels are cut off
 
 Update the integration and reload the dashboard to obtain the 0.2.3 frontend imports. The full drop-in measures the host area, and Photo House preserves the artwork/label ratio. On smaller spaces, scroll inside the drop-in to reach all controls. The supported custom shell should pass its content height using `--sigen-embedded-height`; an old shell that does not render embedded cards needs its own adapter update.
+
+## Backend updated but the old interface remains
+
+Earlier versions retained the unversioned registered TC resource, allowing an open tablet or browser to keep the previous module graph. Version 0.2.4 upgrades its own resource URL automatically. Restart HA after HACS updates, then fully reload the web view. In HA dashboard Resources, the TC URL should end in `?v=0.2.4`. Do not add a second copy of the same module.
+
+## Installed chargers missing from Photo House
+
+Version 0.2.3 hid charger labels when no instantaneous power entity was discovered, even when the Cloud inventory listed the device. Version 0.2.4 separates installed status from telemetry availability. AC/DC labels and cables use actual inventory; missing power stays unknown. Check the discovered inventory and any explicit null/exclusion mapping if a charger remains absent.
